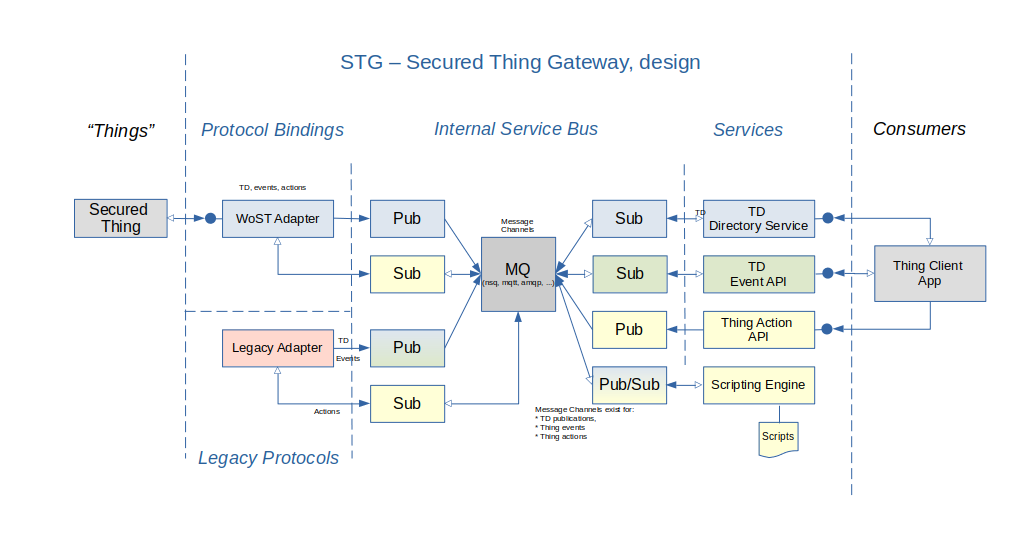
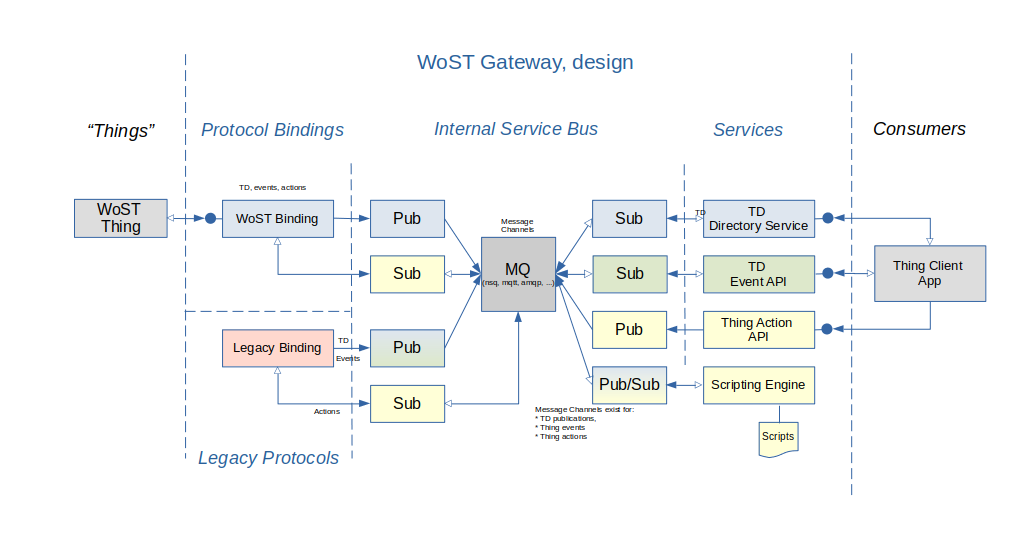
Update readme with picture of gateway design; Basic channel server implementation. Added support for authentication tokens during connection setup.

diff --git a/src/servicebus/ServeChannel.go b/src/servicebus/ServeChannel.go
@@ -15,18 +15,48 @@ const defaultBufferSize = 10
 const isPub = "pub"
 const isSub = "sub"
 
+// Authentication tokens for plugins to accept a connection
+var channelAuthMap = make(map[string]string)
+
+// AddAuthToken adds a token for a plugin
+func AddAuthToken(pluginID string, authToken string) {
+	channelAuthMap[pluginID] = authToken
+}
+
 // ServeChannel handles new channel connections of capture, processor and consumer clients
 func ServeChannel(response http.ResponseWriter, request *http.Request) {
+	pluginID := ""
 	chID := mux.Vars(request)["ChannelID"]
 	pubOrSub := mux.Vars(request)["Stage"]
 	logrus.Infof("ServeChannel starting for channel %s/%s", chID, pubOrSub)
 
+	// authenticate the connection
+	auth := request.Header["Authorization"]
+	if len(auth) == 0 {
+		http.Error(response, "Missing authorization", 401)
+		logrus.Warningf("ServeChannel: Rejected connection without authorization")
+		// request.Body.Close() - not needed as per net/http
+		return
+	}
+	for pid, token := range channelAuthMap {
+		if token == auth[0] {
+			pluginID = pid
+			break
+		}
+	}
+	if pluginID == "" {
+		http.Error(response, "Invalid authorization", 401)
+		logrus.Warningf("ServeChannel: Rejected connection with invalid authorization token")
+		return
+	}
+
 	// upgrade the HTTP connection to a websocket connection
 	c, err := upgrader.Upgrade(response, request, nil)
 	if err != nil {
-		logrus.Printf("ServeChannel upgrade error : %s", err)
+		logrus.Warningf("ServeChannel upgrade error for plugin %s: %s", pluginID, err)
 		return
 	}
+	logrus.Warningf("ServeChannel accepted connection from plugin %s", pluginID)
 
 	channel := channels.GetChannel(chID)
 	if channel == nil {
@@ -34,9 +64,12 @@ func ServeChannel(response http.ResponseWriter, request *http.Request) {
 		channel = channels.NewChannel(chID, defaultBufferSize)
 		go channelMessageWorker(channel)
 	}
-	// Keep listening for messages from publishers
-	if pubOrSub == isPub {
-		// capture connections are closed on exit
+	if pubOrSub == isSub {
+		// record subscriber connections
+		channels.AddSubscriber(channel, c)
+	} else if pubOrSub == isPub {
+		channels.AddPublisher(channel, c)
+		// publisher connections are closed on exit
 		defer c.Close()
 		for {
 			_, message, err := c.ReadMessage()
@@ -47,7 +80,7 @@ func ServeChannel(response http.ResponseWriter, request *http.Request) {
 				channels.RemoveConnection(c)
 				break
 			}
-			logrus.Infof("ServeChannel received capture message on channel ID %s", chID)
+			logrus.Infof("ServeChannel received publication on channel ID %s", chID)
 			channel.ChannelGoChan <- message
 		}
 	}
@@ -64,7 +97,7 @@ func channelMessageWorker(channel *Channel) {
 // If a subscriber fails, it is removed from the channel
 func ConsumeChannelMessage(channelID string, message []byte) {
 	consumers := channels.GetSubscribers(channelID)
-	logrus.Infof("Sending message to %d consumers of channel %s", len(consumers), channelID)
+	logrus.Infof("Sending message to %d subscribers of channel %s", len(consumers), channelID)
 	for _, c := range consumers {
 		err := SendMessage(c, message)
 		if err != nil {

diff --git a/src/servicebus/ServiceBus_test.go b/src/servicebus/ServiceBus_test.go
@@ -13,10 +13,16 @@ import (
 
 const host = "localhost:9678"
 
+const authToken1 = "token1"
+
+var authTokens = map[string]string{
+	"plugin1": authToken1,
+}
+
 // Test pinging the server
 func TestPing(t *testing.T) {
 	logrus.Info("Testing Ping")
-	servicebus.StartServiceBus(host)
+	servicebus.StartServiceBus(host, authTokens)
 	// time.Sleep(time.Second)
 
 	t1 := time.Now()
@@ -30,42 +36,49 @@ func TestPing(t *testing.T) {
 	// time.Sleep(time.Second * 3)
 }
 
-// Test publisher plugin
+// Test publish and subscribe client
 func TestChannel(t *testing.T) {
-	const channel1 = "P1"
-	const authToken = ""
-	const msg1 = "Message 1"
-	var processMsg = ""
-	var consumeMsg = ""
+	const channel1 = "Chan1"
+	const pubMsg1 = "Message 1"
+	var subMsg1 = ""
 
 	logrus.Infof("Testing channel %s", channel1)
-	servicebus.StartServiceBus(host)
+	servicebus.StartServiceBus(host, authTokens)
 	time.Sleep(time.Second)
 
 	// send published channel messages to subscribers
-	publisher, err := client.NewPublisher(host, authToken, channel1)
+	publisher, err := client.NewPublisher(host, authToken1, channel1)
 	require.NoError(t, err)
 
-	subscriber, err := client.NewSubscriber(host, authToken, channel1, func(msg []byte) {
+	subscriber, err := client.NewSubscriber(host, authToken1, channel1, func(msg []byte) {
 		logrus.Info("TestChannel: Received published message")
-		consumeMsg = string(msg)
+		subMsg1 = string(msg)
 	})
 	require.NoError(t, err)
 
-	client.SendMessage(publisher, []byte(msg1))
+	client.SendMessage(publisher, []byte(pubMsg1))
 	time.Sleep(1 * time.Second)
-	assert.Equal(t, msg1, processMsg)
-	assert.Equal(t, msg1, consumeMsg)
+	assert.Equal(t, pubMsg1, subMsg1)
 
 	time.Sleep(time.Second * 1)
 
 	publisher.Close()
 	subscriber.Close()
 	// time.Sleep(time.Second)
-
 }
 
-// Test capture plugin
-func TestCapture(t *testing.T) {
+// Test pub/sub client authentication
+func TestAuthentication(t *testing.T) {
+	const channel1 = "Chan1"
+	const invalidAuthToken = "invalid-token"
 
+	logrus.Infof("Testing authentication on channel %s", channel1)
+	servicebus.StartServiceBus(host, authTokens)
+	time.Sleep(time.Second)
+
+	_, err1 := client.NewPublisher(host, invalidAuthToken, channel1)
+	_, err2 := client.NewSubscriber(host, invalidAuthToken, channel1, func(msg []byte) {})
+
+	require.Error(t, err1, "Expected error creating publisher with invalid auth")
+	require.Error(t, err2, "Expected error creating subscriber with invalid auth")
 }

diff --git a/client/go/ChannelClient.go b/client/go/ChannelClient.go
@@ -2,6 +2,7 @@ package client
 
 import (
 	"fmt"
+	"net/http"
 
 	"github.com/gorilla/websocket"
 	"github.com/sirupsen/logrus"
@@ -10,15 +11,19 @@ import (
 const publishAddress = "ws://%s/channel/%s/pub"
 const subscriberAddress = "ws://%s/channel/%s/sub"
 
-// NewChannelConnection creates a new connection for the given path and authenticates with the server
+// newChannelConnection creates a new connection for the given path and authenticates with the server
 // This returns a websocket connection
 // If onReceiveHandler returns a result, the result is send as a response to the channel.
 // Only use this if a result is expected, otherwise return nil
-func NewChannelConnection(url string, authToken string,
+func newChannelConnection(url string, authToken string,
 	onReceiveHandler func(message []byte, isClosed bool)) (*websocket.Conn, error) {
 
 	logrus.Infof("NewChannelConnection: connecting to %s", url)
-	connection, resp, err := websocket.DefaultDialer.Dial(url, nil)
+	reqHeader := http.Header{}
+	if authToken != "" {
+		reqHeader.Add("authorization", authToken)
+	}
+	connection, resp, err := websocket.DefaultDialer.Dial(url, reqHeader)
 	if err != nil {
 		msg := fmt.Sprintf("%s: %s", url, err)
 		if resp != nil {
@@ -52,7 +57,7 @@ func NewChannelConnection(url string, authToken string,
 // This returns a websocket connection
 func NewPublisher(host string, authToken string, channelID string) (*websocket.Conn, error) {
 	url := fmt.Sprintf(publishAddress, host, channelID)
-	return NewChannelConnection(url, authToken, nil)
+	return newChannelConnection(url, authToken, nil)
 }
 
 // NewSubscriber creates a new connection for a subscriber to a channel
@@ -63,7 +68,7 @@ func NewSubscriber(host string, authToken string, channelID string,
 	handler func(msg []byte)) (*websocket.Conn, error) {
 
 	url := fmt.Sprintf(subscriberAddress, host, channelID)
-	return NewChannelConnection(url, authToken, func(msg []byte, isClosed bool) {
+	return newChannelConnection(url, authToken, func(msg []byte, isClosed bool) {
 		handler(msg)
 	})
 }
@@ -76,7 +81,7 @@ func NewConsumerClient(host string, authToken string, channelID string,
 	handler func(msg []byte)) (*websocket.Conn, error) {
 
 	url := fmt.Sprintf(subscriberAddress, host, channelID)
-	return NewChannelConnection(url, authToken, func(msg []byte, isClosed bool) {
+	return newChannelConnection(url, authToken, func(msg []byte, isClosed bool) {
 		handler(msg)
 	})
 }

diff --git a/src/servicebus/Channels_test.go b/src/servicebus/Channels_test.go
@@ -17,30 +17,26 @@ const defaultBufferSize = 1
 func TestCreateChannel(t *testing.T) {
 	logrus.Info("Testing create channels")
 	cp := servicebus.NewChannelPlumbing()
-	c11 := &websocket.Conn{}
-	c12a := &websocket.Conn{}
-	c12b := &websocket.Conn{}
+	c1 := &websocket.Conn{}
+	c2 := &websocket.Conn{}
+	c3 := &websocket.Conn{}
 	channel1 := cp.NewChannel(channel1ID, defaultBufferSize)
-	cp.AddSubscriber(channel1, c11)
-	cp.AddSubscriber(channel1, c12a)
-	cp.AddSubscriber(channel1, c12b)
+	cp.AddSubscriber(channel1, c1)
+	cp.AddSubscriber(channel1, c2)
+	cp.AddSubscriber(channel1, c3)
 
-	cl11 := cp.GetSubscribers(channel1ID)
-	cl12 := cp.GetSubscribers(channel1ID)
-	cl21 := cp.GetSubscribers(channel2ID)
-	assert.Equal(t, 1, len(cl11), "Expected 1 connection in channel 1")
-	assert.Equal(t, 2, len(cl12), "Expected 2 connection in channel 1")
-	assert.Equal(t, 0, len(cl21), "Expected 0 connections in channel 2")
+	clist1 := cp.GetSubscribers(channel1ID)
+	clist2 := cp.GetSubscribers(channel2ID)
+	assert.Equal(t, 3, len(clist1), "Expected 3 subscriber in channel 1")
+	assert.Equal(t, 0, len(clist2), "Expected 0 subscribers in channel 2")
 
-	removeSuccessful := cp.RemoveConnection(c11)
-	assert.True(t, removeSuccessful, "Connection c11 should have been found")
-	removeSuccessful = cp.RemoveConnection(c12a)
-	assert.True(t, removeSuccessful, "Connection c12a should have been found")
-	cl11 = cp.GetSubscribers(channel1ID)
-	cl12 = cp.GetSubscribers(channel1ID)
-	assert.Equal(t, 0, len(cl11), "Expected 0 connections in channel")
-	assert.Equal(t, 1, len(cl12), "Expected 1 connection in channel")
+	removeSuccessful := cp.RemoveConnection(c1)
+	assert.True(t, removeSuccessful, "Connection c1 should have been found")
+	removeSuccessful = cp.RemoveConnection(c2)
+	assert.True(t, removeSuccessful, "Connection c2 should have been found")
+	clist1 = cp.GetSubscribers(channel1ID)
+	assert.Equal(t, 1, len(clist1), "Expected 1 remaining connection in channel 1")
 
 	// removing twice should not fail
-	cp.RemoveConnection(c11)
+	cp.RemoveConnection(c1)
 }

diff --git a/src/servicebus/StartServiceBus.go b/src/servicebus/StartServiceBus.go
@@ -14,15 +14,19 @@ import (
 // StartServiceBus start listening for incoming connections and messages
 // This returns after listening is established
 // host contains the hostname and port, default is localhost:9678
-func StartServiceBus(host string) {
+// authmap is a map from pluginID to authorization token
+func StartServiceBus(host string, authMap map[string]string) {
 	if host == "" {
 		host = "localhost:9678"
 	}
 
 	router := mux.NewRouter()
-	router.HandleFunc("/pipeline/{ChannelID}/{Stage}", ServeChannel)
+	router.HandleFunc("/channel/{ChannelID}/{Stage}", ServeChannel)
 	router.HandleFunc("/echo", ServeEcho)
 	router.HandleFunc("/", ServeHome)
+	for pid, token := range authMap {
+		AddAuthToken(pid, token)
+	}
 
 	go func() {
 		err := http.ListenAndServe(host, router)

diff --git a/README.md b/README.md
@@ -1,11 +1,12 @@
 # WoST Gateway
 
-The WoST Gateway is the reference implementation of the gateway for the Web of Secured Things (WoST). It receives information from 'WoST Things' and makes the result available to consumers. The gateway aims to be compatible with the WoT open standard but is constrainted to features that meet the WoST security mandate of "Things Do Not Run Servers".
+The WoST Gateway is the reference implementation of the gateway for the Web of Secured Things. It receives information from 'WoST Things' and makes the result available to consumers. The gateway aims to be compatible with the WoT open standard but is constrainted to features that meet the WoST security mandate of "Things Do Not Run Servers".
 
 ## Project Status
 
-This project is in the design phase [Jan 2021]. 
-Development of the core starts in Feb 2021, followed by plugins.
+This project is in the early development [Jan 2021]. 
+Development on the internal gateway service bus has started.
+
 
 ## Audience
 
@@ -85,11 +86,9 @@ plugins:                   // list of plugins to launch
   directory
 ~~~
 
-
 The gateway looks in the ./config folder or the /etc/wost folder for this file. This file is optional. Out of the box defaults will provide a working gateway with an internal service bus that listens on localhost port 9678 (WOST). 
 
 Plugins can optionally be configured through yaml configuration files in the same configuration folder.
-
 
 ## Launching
 
@@ -141,7 +140,7 @@ Service plugins can optionally publish transformed data onto the TD/event channe
 
 ## Writing Plugins
 
-Plugins can be written in any programming language. They can include a configuration file that describes their purpose and the pipeline they use. Plugins must use the gateway library to connect to the service bus.
+Plugins can be written in any programming language. They can include a configuration file that describes their purpose and the channels they use. Plugins must use the gateway library to connect to the service bus.
 
 There is nearly no boilerplate code involved in writing plugins, except for adhering to the channel data requirements. Plugins can therefore be very lightweight and efficient. 
 
@@ -165,7 +164,7 @@ To receive channel data, connect to the channel and include an optional filter:
 ### Reference Plugin s
 The WoST project plans to include several plugins for working out of the box.
 
-* The 'discovery' protocol binding announces the gateway on the local network using mDNS. This is intended to let Secured Things discover the gateway.
+* The 'discovery' protocol binding announces the gateway on the local network using mDNS. This is intended to let WoST Things discover the gateway.
 
 * The  'wost' protocol binding provides a websocket API for use by WoST Things to provision, publish TD's, publish events, and receive actions.
 
